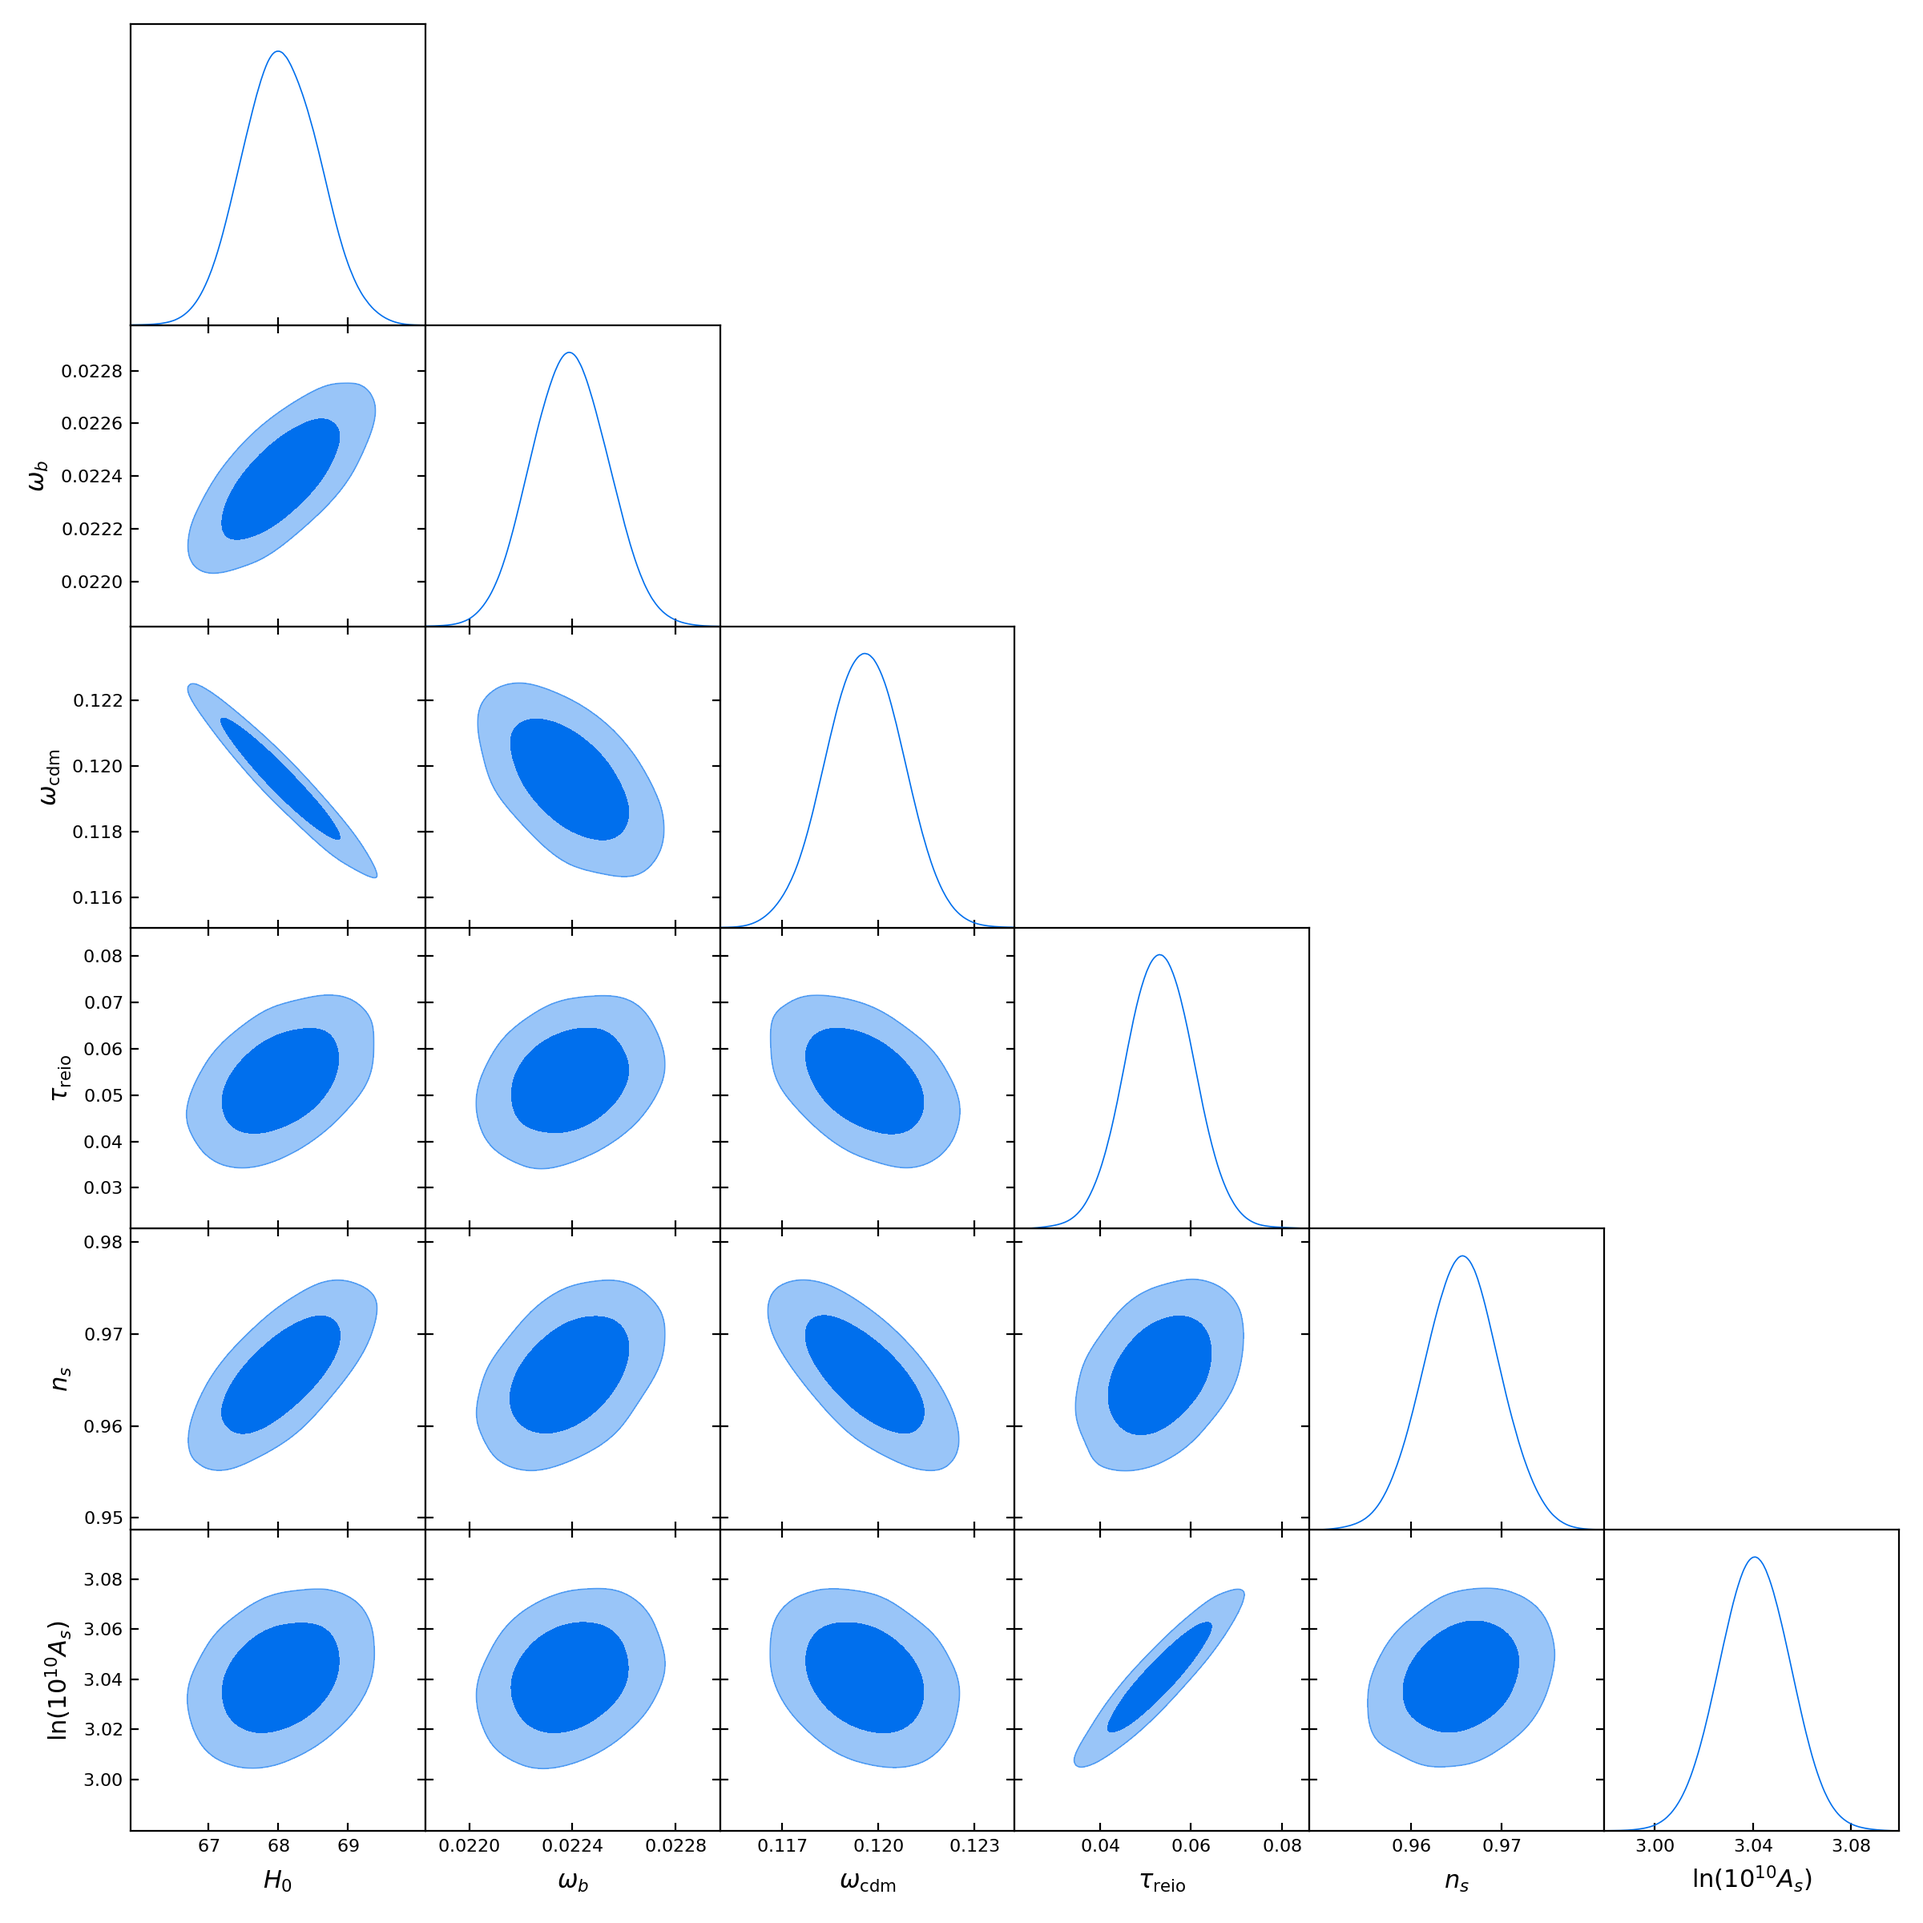
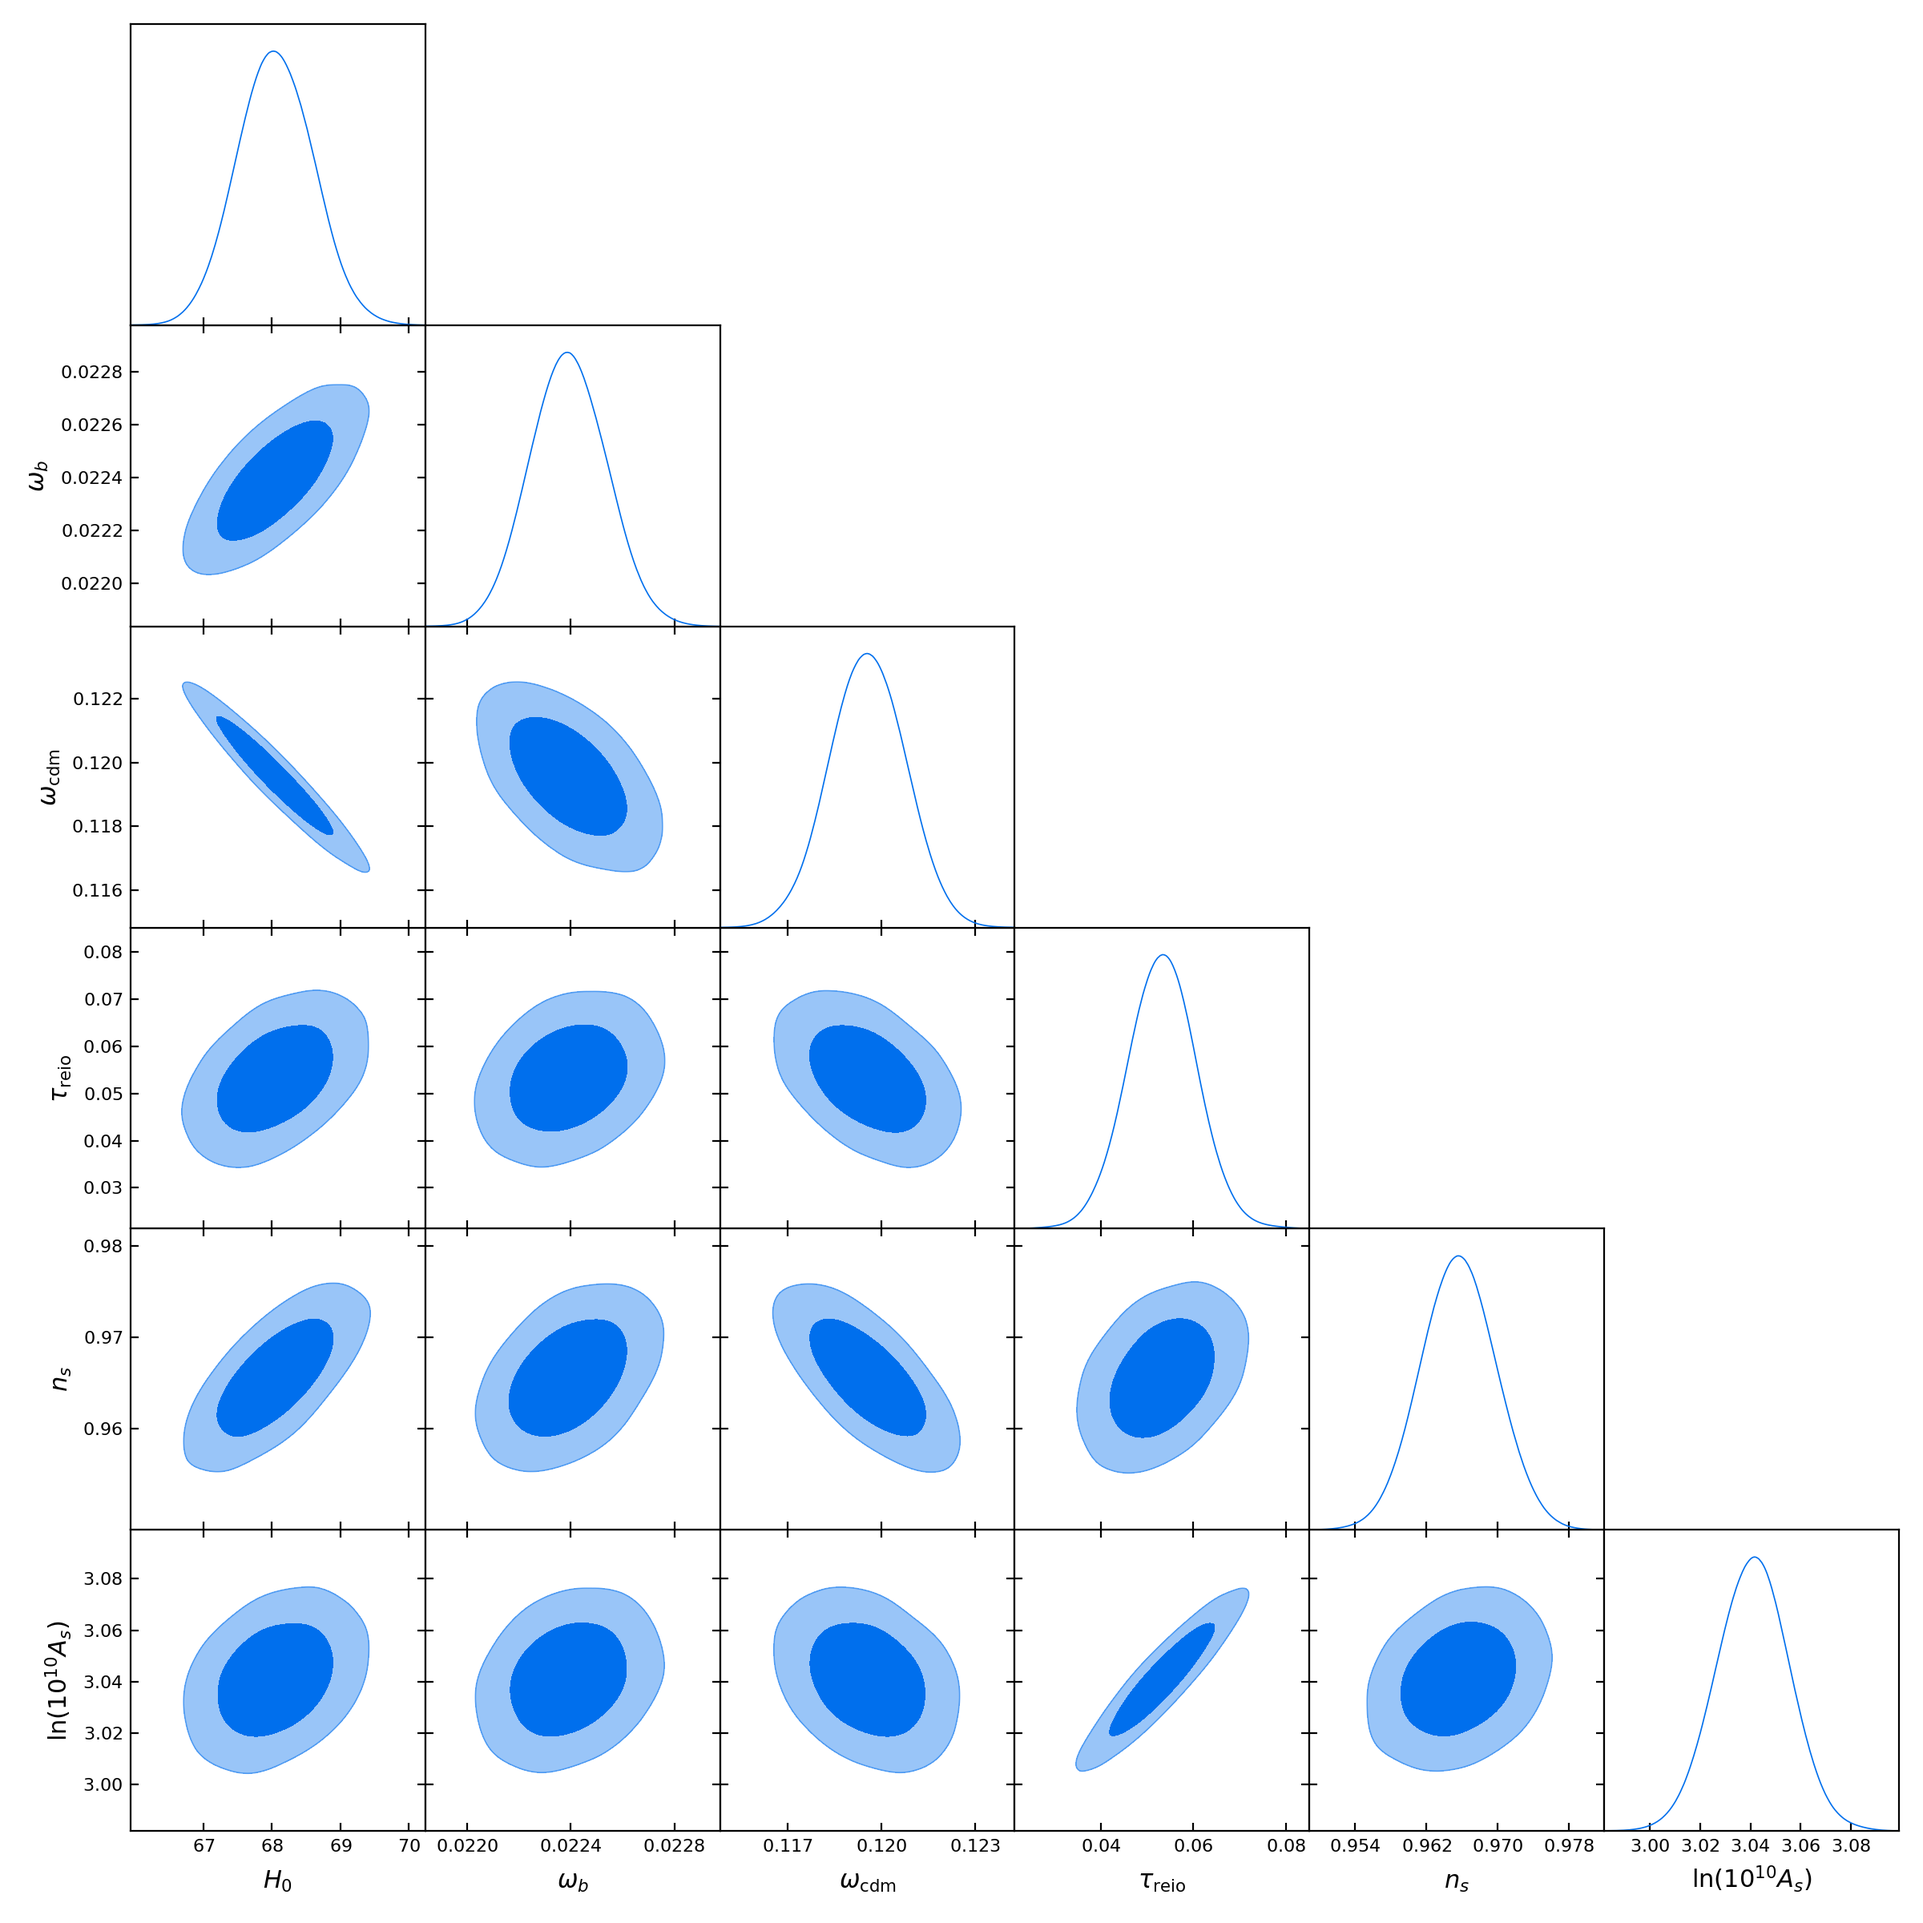
Sync work before deleting Codespace

diff --git a/analyze_my_chain.py b/analyze_my_chain.py
@@ -170,7 +170,7 @@ samples = MCSamples(
 g = plots.get_subplot_plotter()
 g.triangle_plot(samples, filled=True)
 
-plot_path = "chains/planck_tttee_triangle.png"
+plot_path = prefix+"_triangle.png"
 plt.tight_layout()
 plt.savefig(plot_path, dpi=200)
 print(f"\nTriangle plot generated and saved to: {plot_path}")

diff --git a/compare_chains.py b/compare_chains.py
@@ -251,7 +251,7 @@ if planck_chain_3 is not None:
     tri.contour_cl(planck_chain_3, color='blue', label="My Chains")
 
 plt.suptitle('Triangle Plots for Chain Comparison', y=1.02)
-plt.show()
+#plt.show()
 
 # Create a unique filename for the plot
 plot_filename = f"triangle_plot_comparison.png"
